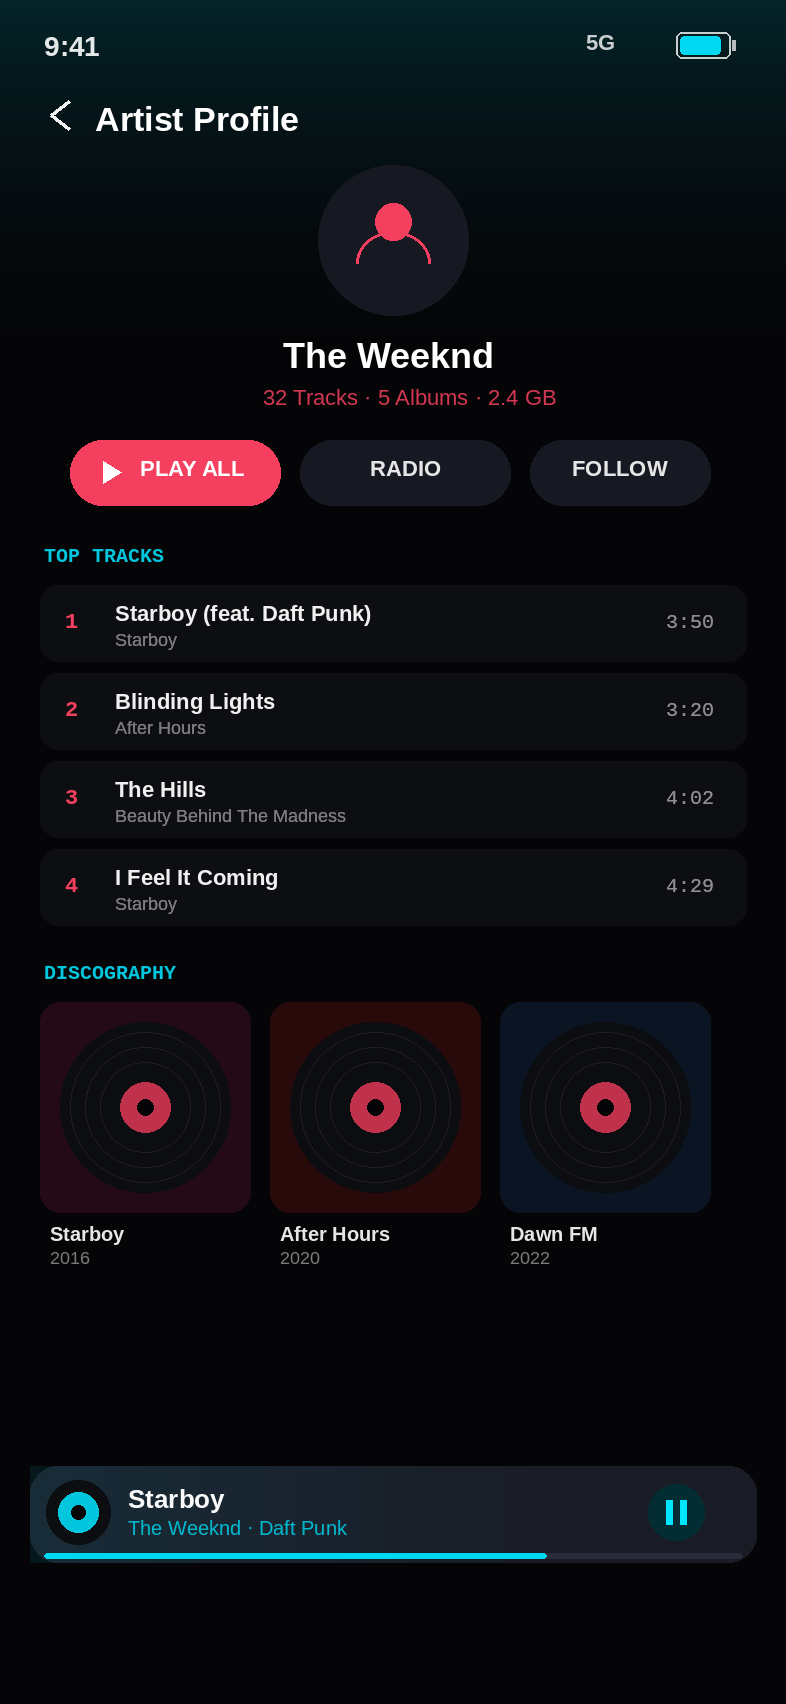
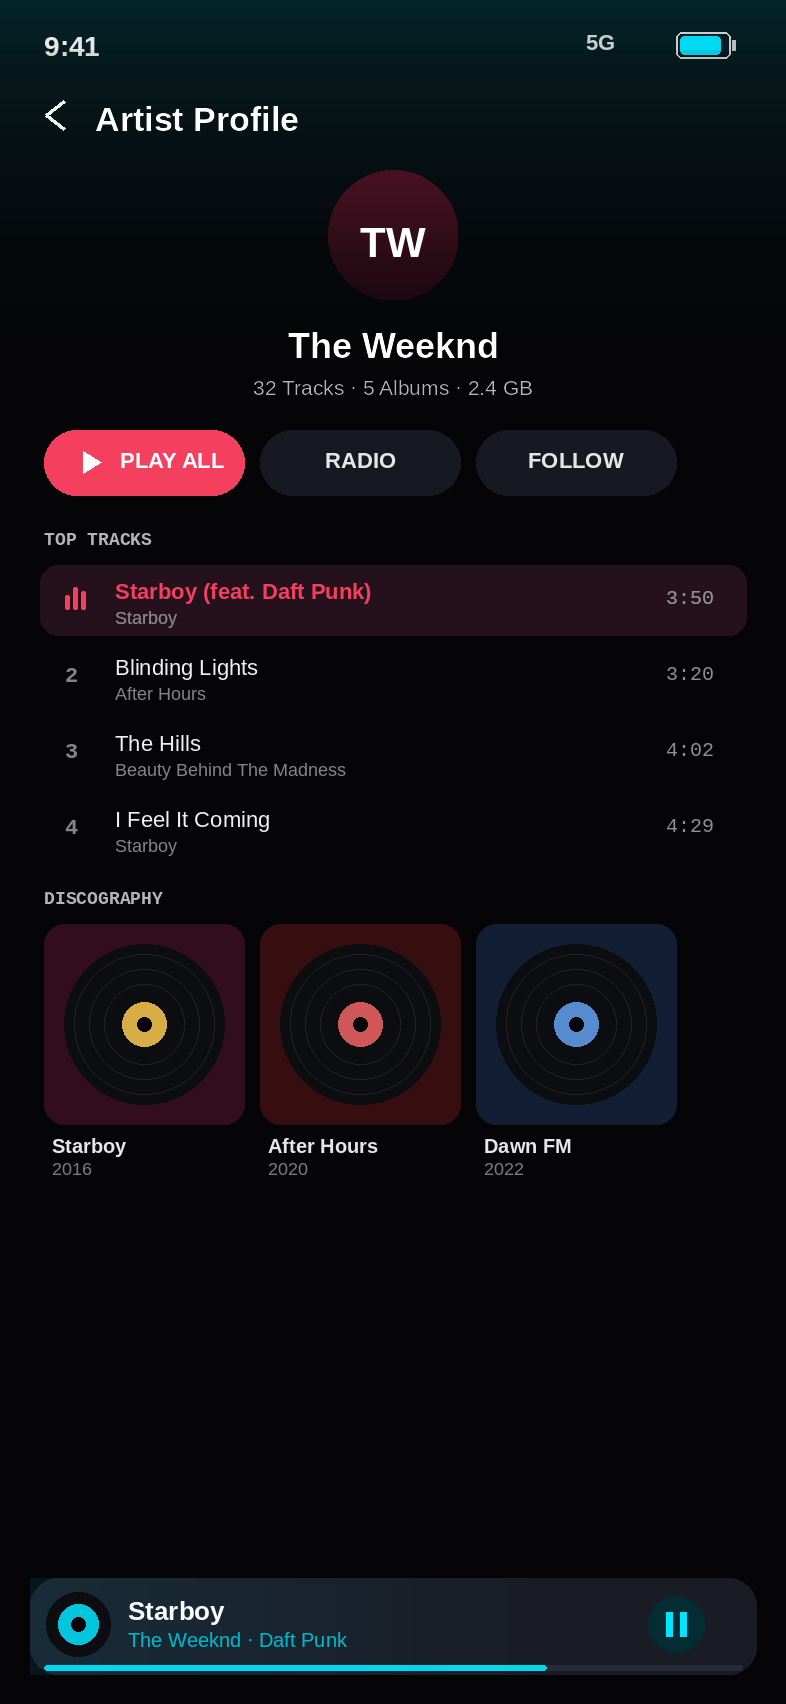
fix(ui): fix blank discography art, button alignment, and accent clash (UI Audit 05/42)

diff --git a/lib/features/library/presentation/screens/artist_detail_screen.dart b/lib/features/library/presentation/screens/artist_detail_screen.dart
@@ -29,6 +29,8 @@ class ArtistDetailScreen extends ConsumerWidget {
     final onSurfaceVariant = theme.colorScheme.onSurfaceVariant;
     final surfaceTokens = NexaSurfaceTokens.of(context);
     final tracksAsync = ref.watch(artistDetailTracksProvider(artist.id));
+    final playerState = ref.watch(playerNotifierProvider);
+    final currentTrackId = playerState.currentTrack?.id;
 
     return Scaffold(
       key: Phase2Keys.artistDetailScreen,
@@ -180,6 +182,7 @@ class ArtistDetailScreen extends ConsumerWidget {
                             child: TrackTile.fromTrack(
                               key: Phase2Keys.trackTile(track.id),
                               track: track,
+                              isPlaying: track.id == currentTrackId,
                             ),
                           );
                         },
